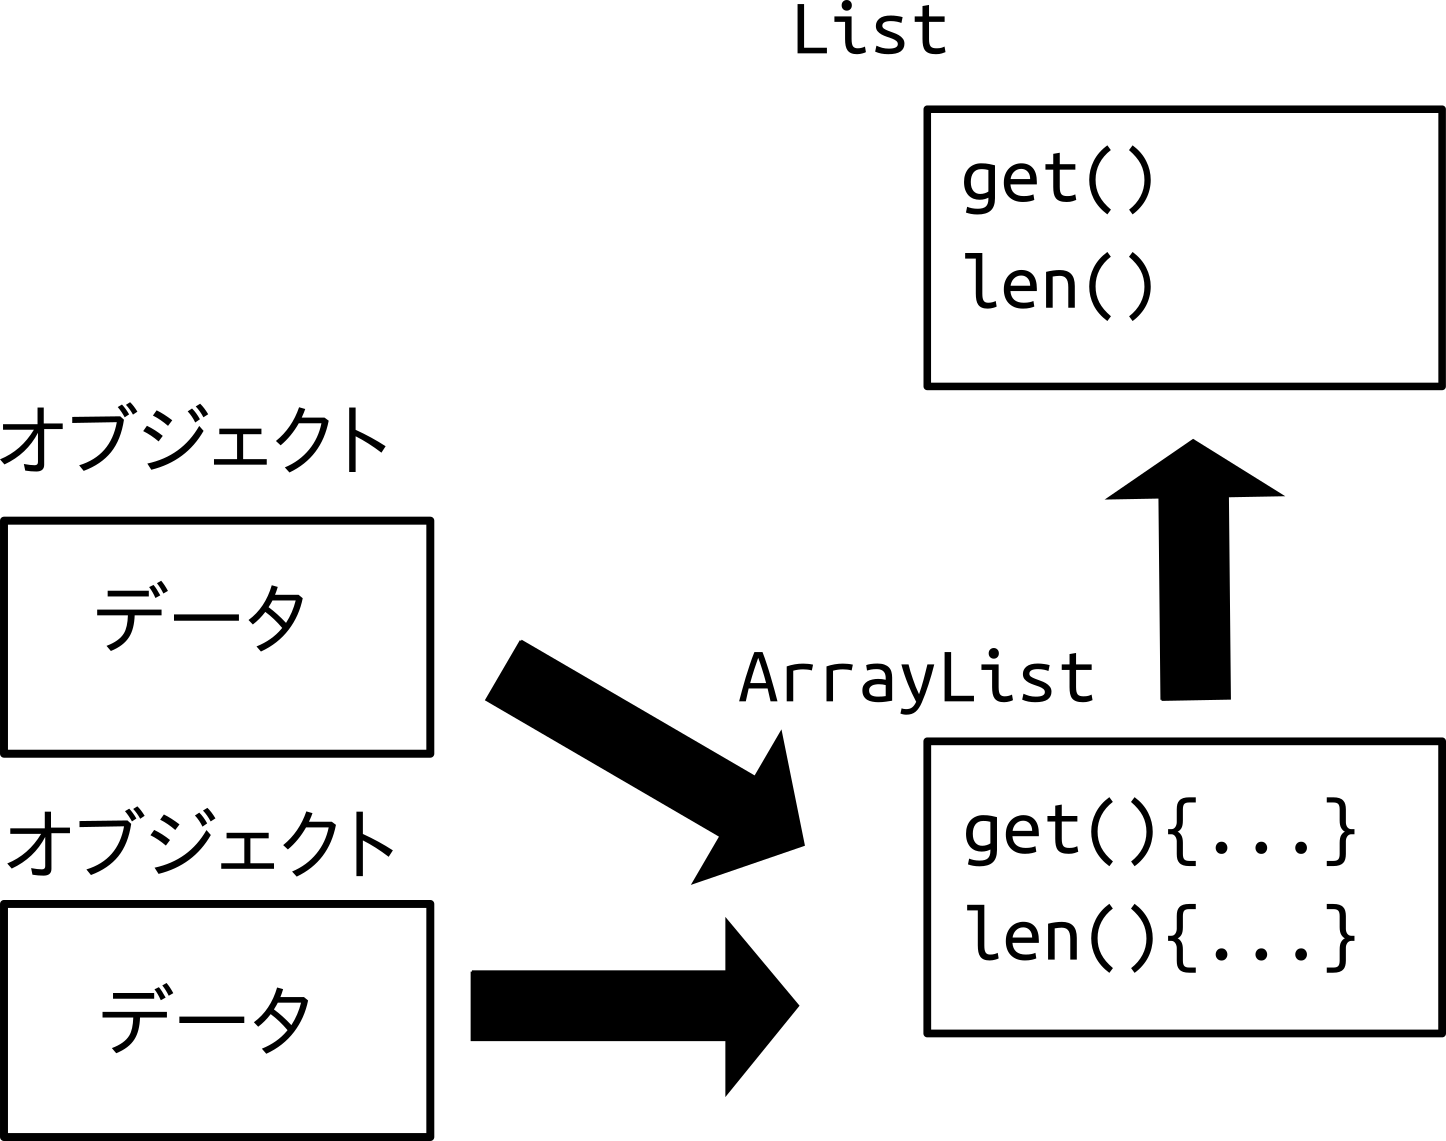
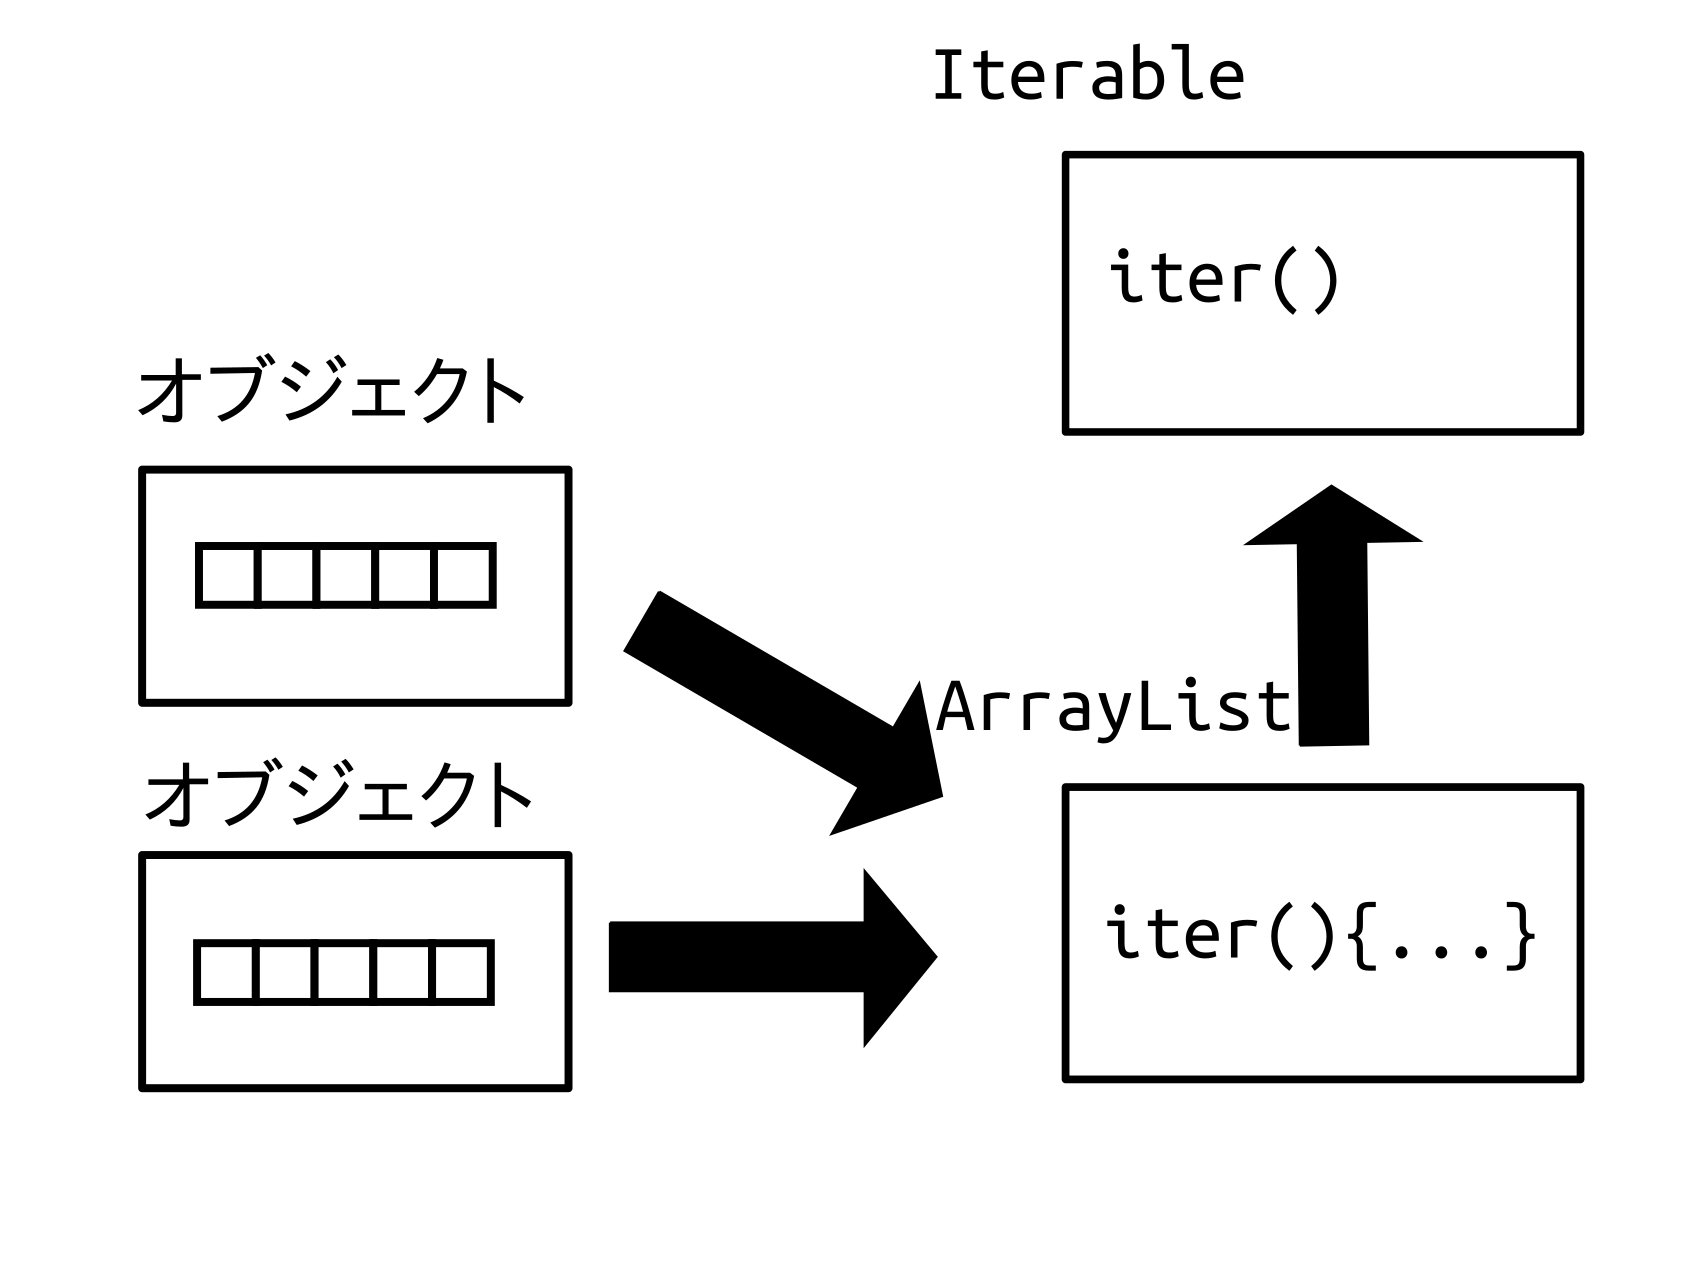
Site updated at 2018-03-23 16:51:00 UTC

Changed region(s): [[0.0, 0.2761, 1.0, 1.0], [0.529, 0.0, 1.0, 0.3681]]

diff --git a/slide/obujiekutoshikougengotokansuugatagengo/index.html b/slide/obujiekutoshikougengotokansuugatagengo/index.html
@@ -129,6 +129,17 @@
     data-notes="^Note:">
 <script type="text/template">
 
+# はじめに
+----------
+
+* 椅子のキーストラップは是非お持ち帰り下さい
+* 主にプログラミング言語を1つ覚えたくらいの人を対象にしています
+* トークで40分全部使い切る予定なので質問はこのあとの職員室でお願いします
+* たまに細かい話が出てきますがスルーして下さい
+  + 主に重箱の角をつつく人への対策です
+
+===
+
 <h1>
 オブジェクト指向言語  
 と  
@@ -137,7 +148,8 @@
 
 ----------------
 
-[MANABIYA](https://manabiya.tech/) 2日目5時間目
+[MANABIYA](https://manabiya.tech/) 2日目5時間目  
+#manabiya
 
 <!-- .slide: class="center" -->
 ===
@@ -155,14 +167,12 @@
 
 ===
 
-# はじめに
-----------
+# 話すこと
+--------
 
-* 机上のキーストラップは是非お持ち帰り下さい
-* 主にプログラミング言語を1つ覚えたくらいの人を対象にしています
-* トークで40分全部使い切る予定なので質問はこのあとの職員室でお願いします
-* たまに細かい話が出てきますが分からなければスルーして下さい
-  + 主に重箱の角をつつく人への対策です
+* オブジェクト指向/関数型"プログラミング"とはパラダイムのことだよ
+* オブジェクト指向/関数型"言語"とはそのパラダイムを支援する言語のことだよ
+* 言語とパラダイムの区別を明確に！
 
 ===
 
@@ -219,15 +229,15 @@
 * 片方しか経験ない人はもう片方も学んでみよう
   + パラダイムが違うので最初は馴れない
   + コツは過去の成功体験を捨てること
-    - パラダイムが違うのだから今まで通りにできないのは当たり前
+    - パラダイムが違うと作法も違う
 * ベタな手続き型プログラミングよりいいコードを書きたい
 
 ===
 # 参考図書
 ----------
 
-[![オブジェクト指向設計実践ガイド](http://image.gihyo.co.jp/assets/images/cover/2016/9784774183619.jpg)](http://gihyo.jp/book/2016/978-4-7741-8361-9) <!-- .element: style="float:left;"-->
-[![関数プログラミング実践入門](http://image.gihyo.co.jp/assets/images/cover/2016/9784774183909.jpg)](http://gihyo.jp/book/2016/978-4-7741-8390-9)     <!-- .element: style="float:right;"-->
+[<img src="http://image.gihyo.co.jp/assets/images/cover/2016/9784774183619.jpg" alt="オブジェクト指向設計実践ガイド" width="100%">](http://gihyo.jp/book/2016/978-4-7741-8361-9) <!-- .element: style="float:left;width:45%;"-->
+[<img src="http://image.gihyo.co.jp/assets/images/cover/2016/9784774183909.jpg" alt="関数プログラミング実践入門" width="100%">](http://gihyo.jp/book/2016/978-4-7741-8390-9)     <!-- .element: style="float:right;width:45%;"-->
 
 ===
 
@@ -237,7 +247,7 @@
 
 * コード同士の依存関係を上手く管理したい
 * 依存関係を上手く扱うことで変更に強いソフトウェアへ
-  * DDDなどの設計手法
+  * [DDD](https://ja.wikipedia.org/wiki/%E3%83%89%E3%83%A1%E3%82%A4%E3%83%B3%E9%A7%86%E5%8B%95%E8%A8%AD%E8%A8%88)などの設計手法
 * コードの分割
 * コードの再利用
 
@@ -248,9 +258,8 @@
 **副作用** を出来るだけ使わないプログラミング手法[※](https://twitter.com/esumii/status/638591159518887936)
 
 * 副作用 = 計算以外のもの
-  + 破壊的変更、出入力など
-    - (深入りするとややこしい)
-* 状態を排除することで文脈に依存しないわかりやすいコードへ
+  + 破壊的変更、出入力など(深入りするとややこしい)
+* 状態を排除→文脈に依存しないコードへ
   * 読みやすくなる
   * バグが少なくなる
 * コードの分割と合成
@@ -311,7 +320,7 @@ procedual_sum(const int array[], size_t n)
 * データの中身を列挙するオブジェクト(イテレータ)を用意しよう
   + イテレータはデータにメッセージを送って取得しよう
 * イテレータにメッセージを送って要素を取得しよう
-* イテレータを返してくれればデータの実装は気にしなくてよくなるな
+* イテレータがあればデータの実装に依存しなくなるな
 
 ===
 # イメージ
@@ -475,10 +484,14 @@ array_list_iter_next(struct iter *super)
 # OOPコードの特徴
 -----
 
-* オブジェクト(`iter_t`)にメッセージ(`has_next`、`next`)を送ってループを書いた
-* インターフェース(`list_t`、`iter_t`)と実装(`array_list_t`、`array_list_iter_t`)を分離してコードを書いた
+* オブジェクトにメッセージを送ってループを書いた
+  + オブジェクト = `iter`
+  + メッセージ = `has_next`、`next`
+* インターフェースと実装を分離してコードを書いた
+  + インターフェース = `iterable`、`iter`
+  + 実装 = `array_list`、`array_list_iter`
 * データの中身を知らなくてもコードを書けた
-  + 今回は配列のみだが木構造や辞書などにも適用できる
+  + 木構造や辞書などにも適用できる
 * 具体的実装がなくてもコードを書けた
   + コードの分割ができる
 
@@ -548,8 +561,10 @@ functional_sum(const int array[], const size_t n)
 # FP的コードの特徴
 ----------------
 
-* ループ(`reduce`)と中身(`add`)に分解してコードを書いた
-  + 制御構造(`for`文)を関数にできた
+* ループと中身に分解してコードを書いた
+  + ループ = `for文` → `reduce`
+  + 中身 = `sum += array[i]` → `add`
+  + 制御構造を関数にできた
 * 副作用(変数の更新)を行わずにコードを書いた
 * 宣言的になった
 
@@ -578,8 +593,8 @@ functional_sum(const int array[], const size_t n)
   + 他のデータ型に対して適用できない
 * 副作用を使わない
   + 機械の操作とは大分違う
-* 毎回データのコピーが発生する
-  + 今回の例では運良く`int`しかコピーしなかったが一般には頻繁にデータをコピーする
+* 一般には毎回データのコピーが発生する
+  + 今回の例では運良く`int`しかコピーしなかった
 
 ===
 
@@ -607,19 +622,10 @@ functional_sum(const int array[], const size_t n)
 # OOP言語色々
 ---------------------
 * メソッド呼び出し構文があればOOPを支援(?)
-  ```
-  obj->msg(obj)
-  ```
-  が
-  ```
-  obj.msg()
-  ```
-  に
+  + `obj->msg(obj)` → `obj.msg()`
 * クラスベース
-  + 単一継承
-    - Ruby Java C# ...
-  + 多重継承
-    - Python  C++ ...
+  + Ruby Java C# Python C++ ...
+  + 単一継承/多重継承の違いも
 * プロトタイプベース
   + Smalltalk JS ...
 * その他
@@ -636,11 +642,9 @@ functional_sum(const int array[], const size_t n)
   + ある意味では親と子の密結合
 * リスコフの置換則
   + 親クラスはいつでもサブクラスに置き換えられるべき
-* 意識しないと差分プログラミングをしてしまってスパゲッティコードになる
+* 差分プログラミングをするとスパゲッティコードになる
 
 > 「オブジェクトの階層構造をコストとして払う代わりに、メッセージの移譲は無料で手に入れられる」
-
-> 「サブクラスがsuperを送らなければならないようなコードを書くと、さらに依存が追加されます。」
 
 ===
 
@@ -662,10 +666,10 @@ functional_sum(const int array[], const size_t n)
 ------
 * クラスベース単一継承
 * 抽象クラスやインターフェースによる抽象化
+* プリミティブ型はオブジェクトじゃない
 * 遅くならない工夫
-  + → プリミティブ型はオブジェクトじゃない
-  + → JITによる高速化
-  + → GCアルゴリズムの改善
+  + → 実行しながら高速化
+  + → メモリ管理の改善
 * 割とクラスの機能が強い
   + クラスが名前空間も兼任
   + スタンドアロンな関数が書けない（かった）
@@ -738,8 +742,6 @@ class Triangle extends Figure {
   + メッセージに応答すればなんでもいい
 * クラスだけでなくモジュールも
   * mix-in
-  * たとえばイテレータ相当のものは`Enumerable`モジュールが担当
-  * `for`文相当のものは`each`で可能
 * クラスの権限がそんなに強くない
   + オープンクラス
 
@@ -794,7 +796,7 @@ class Triangle extends Figure {
   + 演算子も関数
   + 関数合成
   + 高階関数
-  + カリー化
+  + カリー化(関数を返す関数)
 * ※「関数型 = Haskell」はHaskellプログラマの麻疹
 
 ===
@@ -1057,9 +1059,7 @@ tarai(int x, int y, int z)
 * 高階関数
   + Rubyのブロックも
 * JavaのStreaming API
-  + FP in Java
-* typeclassやADT
-  + RustやSwift
+  + [FP in Java](https://www.amazon.co.jp/dp/1937785467)
 
 ===
 # 結局どういう関係なの？<!-- .element: style="font-size: calc(var(--title-font-size) * 0.9)"-->
@@ -1093,8 +1093,8 @@ tarai(int x, int y, int z)
 # まとめ
 --------
 
-* オブジェクト指向/関数型とはパラダイムのことだよ
-* オブジェクト指向/関数型とはそのパラダイムを支援する言語のことだよ
+* オブジェクト指向/関数型プログラミングとはパラダイムのことだよ
+* オブジェクト指向/関数型言語とはそのパラダイムを支援する言語のことだよ
   + 言語とパラダイムの区別を明確に！
 * それぞれ目的もアプローチも違うよ
 * 両方手札に持って使い分けようね

diff --git a/css/cleanveal.css b/css/cleanveal.css
@@ -56,7 +56,7 @@
 .slides ol, .slides ul {
     list-style-position:inside;
     text-align: left;
-    line-height: 120%;
+    line-height: 150%;
 }
 
 .slides ul > li {
@@ -65,6 +65,11 @@
 .slides pre {
     text-align: left;
 }
-.reveal td, .reveale th {
+
+.slides blockquote {
+    text-align: left;
+}
+
+.reveal td, .reveal th {
     padding: 8px;
 }
